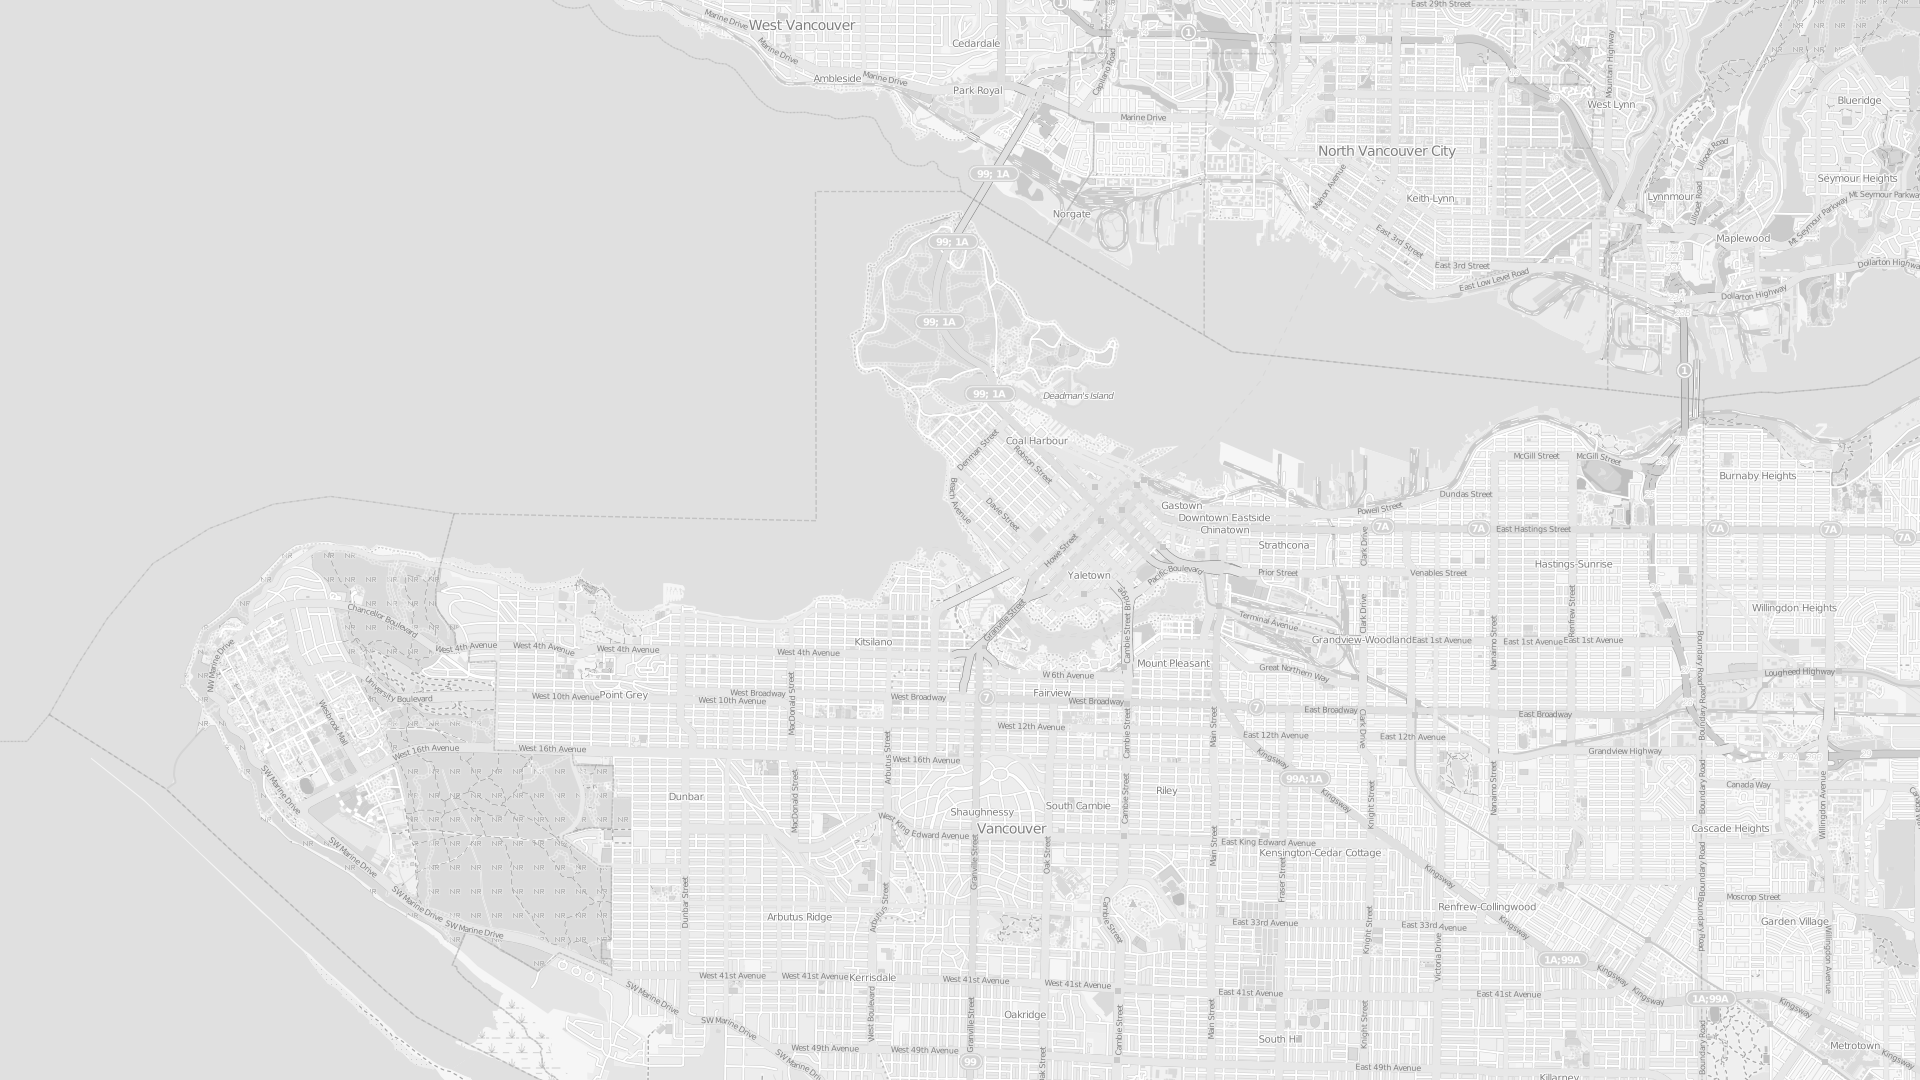
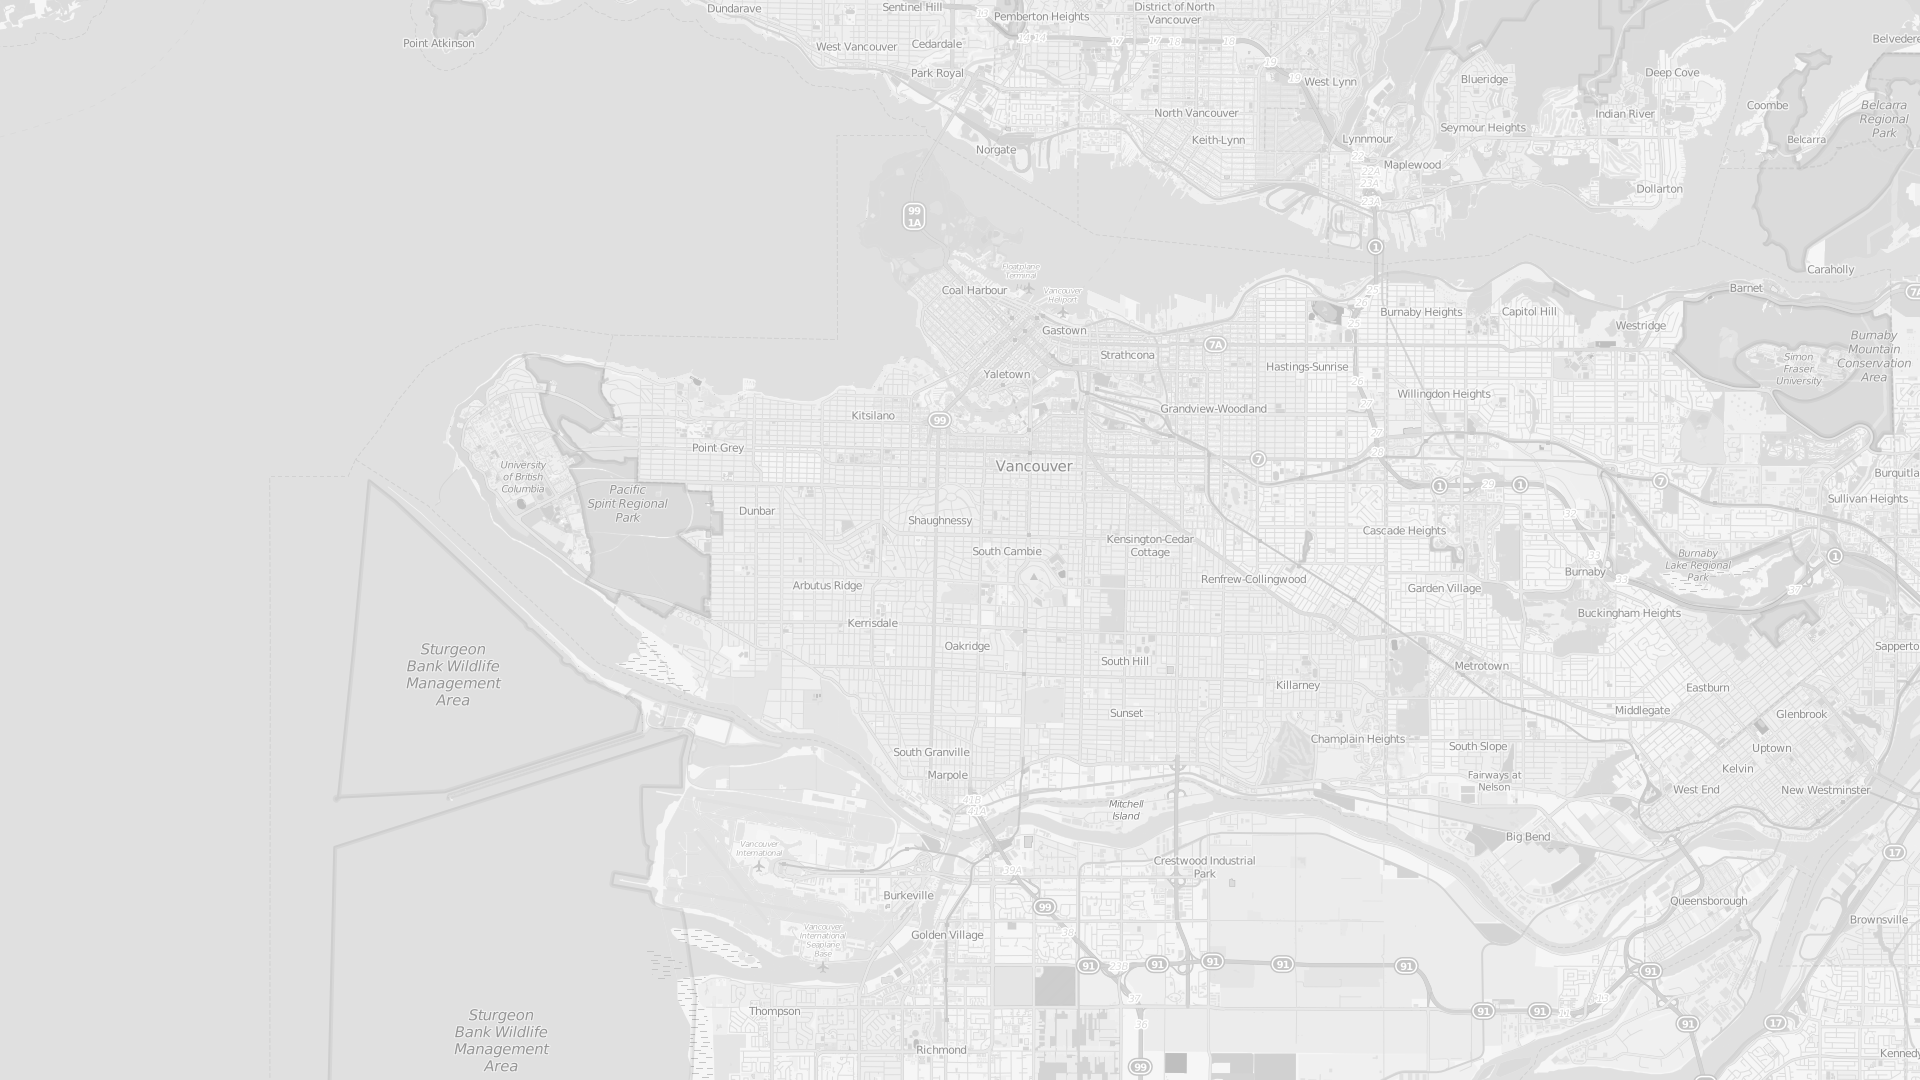
update Vancouver car2go data for new bounds

diff --git a/car2go/city.py b/car2go/city.py
@@ -310,47 +310,58 @@ CITIES = {
     },
     'ulm': {},
     'vancouver': {'of_interest': True, 'electric': 'some',
-        # TODO: vancouver should be updated for new home area bounds. think about vancouver-metro to include ferries and langley and so on?
         'number_first_address': True,
         'BOUNDS': {
-            'NORTH': 49.336, # exact value 49.335735
-            'SOUTH': 49.224, # exact value 49.224716
-            'EAST':  -123.031, # exact value -123.03196
-            'WEST':  -123.252
-            # limit of home area is -123.21545; westernmost parking spot 
-            # at UBC is listed as centered on -123.2515
-            
-            # there's also parkspots in Richmond and Langley,
-            # I am ignoring them to make map more compact.
+            # Based on operation areas and parking spots as of January 2015,
+            # bounds are defined as:
+            # north: North Van northern boundary, exact value 49.335808
+            # south: Richmond southern boundary, exact value 49.16097
+            # east: BCIT Burnaby parking lot, exact value -123.0081
+            # west: UBC westernmost parking lot, exact value -123.25777
+            # + 0.003 padding on all sides to account for GPS wobble.
+            # This excludes parking areas at: Grouse Mtn, Horseshoe Bay, and Kwantlen Surrey and Langley campuses,
+            # as these are marginal areas that would stretch the map too much in north-south dimension.
+            'NORTH': 49.338808,
+            'SOUTH': 49.15797,
+            'EAST': -123.0051,
+            'WEST': -123.26077
         },
         'MAP_LIMITS': {
-            # E & W values are different than home area bounds - 16:9 aspect ratio
-            # map scale is 1 : 63200 for 1920x1080
-            # http://parent.tile.openstreetmap.org/cgi-bin/export?bbox=-123.29415,49.224,-122.98885,49.336&scale=63200&format=png
-            'NORTH': 49.336,
-            'SOUTH': 49.224,
-            'EAST':  -122.98885,
-            'WEST':  -123.29415
+            # E & W values are different than home area bounds - expanded symmetrically for 16:9 aspect ratio
+            # map scale is 1 : 101947 for 1920x1080
+            # http://render.openstreetmap.org/cgi-bin/export?bbox=-123.379119,49.15797,-122.886751,49.338808&scale=101947&format=png
+            'NORTH': 49.338808,
+            'SOUTH': 49.15797,
+            'EAST': -122.886751,
+            'WEST': -123.379119
         },
         'DEGREE_LENGTHS': {
-            # for latitude 49.28
-            'LENGTH_OF_LATITUDE': 111215.12,
-            'LENGTH_OF_LONGITUDE': 72760.72
+            # for latitude 49.25
+            'LENGTH_OF_LATITUDE': 111214.54,
+            'LENGTH_OF_LONGITUDE': 72804.85
         },
         'MAP_SIZES': {
             'MAP_X' : 1920,
             'MAP_Y' : 1080
         },
         'LABELS': {
-            'fontsizes': [35, 22, 30, 18, 18],
+            'fontsizes': [35, 22, 30, 18],
             'lines': [
-                (20, 1080 - 55),
-                (20, 1080 - 93),
-                (20, 1080 - 132),
-                (20, 1080 - 170),
-                (20, 1080 - 195)
+                (100, 1080 - 135),
+                (100, 1080 - 173),
+                (100, 1080 - 212),
+                (100, 1080 - 250)
             ]
         }
+    },
+    'vancouver-metro': {
+        # Could do a wider area Vancouver analysis including all the outlying areas.
+
+        # The limits would be (as of January 2015):
+        # north = Grouse parking / home area at 49.37522
+        # south = Kwantlen Langley western campus parking spot at 49.100723
+        # east = Kwantlen Langley eastern campus parking spot at -122.64428
+        # west = Horseshoe Bay parking / home area at -123.2745
     },
     'washingtondc': {'display': 'Washington, D.C.',
         'number_first_address': True},
@@ -414,12 +425,47 @@ def get_operation_areas(city):
 
     return json.loads(data_text).get('placemarks')
 
+def get_parking_spots(city):
+    import cars
+    import json
+
+    API_PARKING_URL = 'https://www.car2go.com/api/v2.1/parkingspots?loc={loc}&oauth_consumer_key={key}&format=json'
+
+    data_text = cars.get_URL(API_PARKING_URL.format(loc=city, key=OAUTH_KEY))
+
+    return json.loads(data_text).get('placemarks')
+
 def print_operation_areas(city):
     areas = get_operation_areas(city)
 
     for area in areas:
         print '%s: %s zone' % (area['name'], area['zoneType'])
         print 'border points: %d, bounds: %s' % (len(area['coordinates']), get_max_latlng(area))
+
+def print_parking_spots(city, lat_gt=False, lat_lt=False, lng_gt=False, lng_lt=False):
+    spots = get_parking_spots(city)
+
+    # mimic data format for operation area bounds
+    all_coords = {'coordinates': []}
+
+    for spot in spots:
+        lat = spot['coordinates'][1]
+        lng = spot['coordinates'][0]
+
+        # filter points if requested
+        if lat_gt and lat < lat_gt:
+            continue
+        if lat_lt and lat > lat_lt:
+            continue
+        if lng_gt and lng < lng_gt:
+            continue
+        if lng_lt and lng > lng_lt:
+            continue
+
+        # if we're here, point shouldn't be filtered, add to list
+        all_coords['coordinates'].extend(spot['coordinates'])
+
+    print 'parking spots: %d, bounds: %s' % (len(all_coords['coordinates']), get_max_latlng(all_coords))
 
 def get_max_latlng(area):
     latitudes = []
